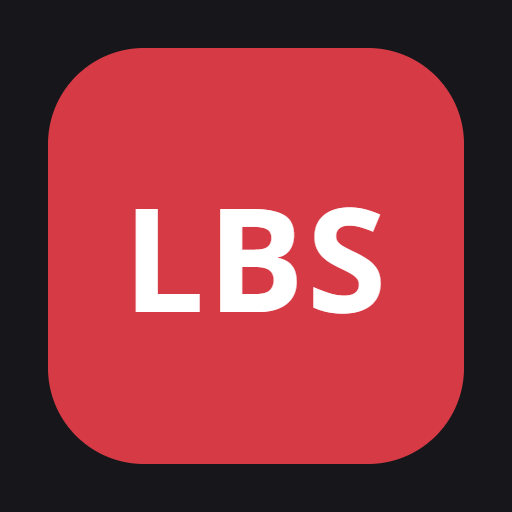
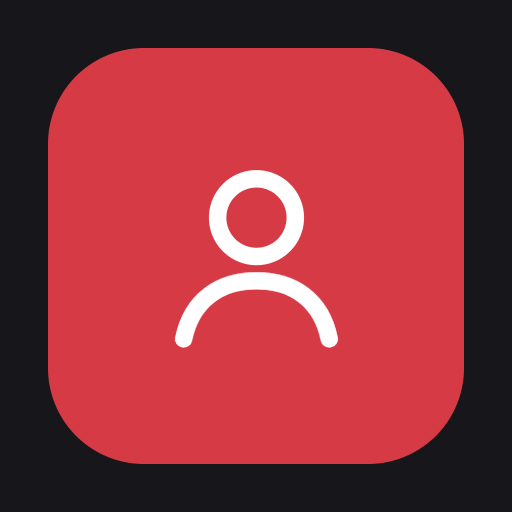
Paso 7: README, marca neutra y filtro de disponibilidad
Nombre "Gestión de alumnos (demo)", icono genérico sin siglas y aviso visible
de proyecto personal de demostración no afiliado. README y .gitignore.
El filtro Prácticas/Empleo incluye a los de Ambas. Caché a v7.

Changed region(s): [[0.25, 0.3125, 0.75, 0.6875]]

diff --git a/js/vistas/buscar.js b/js/vistas/buscar.js
@@ -32,9 +32,9 @@ export async function pintarBuscar(raiz) {
   const situaciones = opciones(listas.situaciones, ['situacionTrabajo']);
   const disponibilidades = opciones(listas.disponibilidades, ['disponibilidad']);
 
-  const campoSelect = (id, etiqueta, valores, clave, todas) => {
+  const campoSelect = (id, etiqueta, valores, clave, todas, nombreOpcion = v => v) => {
     const s = el('select', { id, onchange: () => { e[clave] = s.value; pintarResultados(); } },
-      el('option', { value: '' }, todas), valores.map(v => el('option', { value: v }, v)));
+      el('option', { value: '' }, todas), valores.map(v => el('option', { value: v }, nombreOpcion(v))));
     return el('div', { class: 'campo-form' }, el('label', { for: id }, etiqueta), s);
   };
 
@@ -69,7 +69,8 @@ export async function pintarBuscar(raiz) {
         el('div', { class: 'opciones', role: 'group', 'aria-labelledby': 'l-area-en' }, botonesArea)),
       campoSelect('f-nac', 'Nacionalidad (principal o secundaria)', nacionalidades, 'nacionalidad', 'Todas las nacionalidades'),
       campoSelect('f-sit', 'Situación de trabajo en España', situaciones, 'situacion', 'Todas las situaciones'),
-      campoSelect('f-disp', 'Disponibilidad', disponibilidades, 'disponibilidad', 'Prácticas, empleo o ambas')));
+      campoSelect('f-disp', 'Disponibilidad', disponibilidades, 'disponibilidad', 'Prácticas, empleo o ambas',
+        v => (v === 'Ambas' ? 'Ambas (prácticas y empleo)' : `${v} (incluye Ambas)`))));
 
   function pintarResultados() {
     const res = filtrar(alumnos, e);

diff --git a/css/app.css b/css/app.css
@@ -6,7 +6,7 @@
 @font-face{font-family:"Open Sans";font-style:normal;font-weight:700;font-display:swap;src:url(../fonts/opensans-latin-ext-700.woff2) format("woff2");unicode-range:U+0100-02BA,U+02BD-02C5,U+02C7-02CC,U+02CE-02D7,U+02DD-02FF,U+0304,U+0308,U+0329,U+1D00-1DBF,U+1E00-1E9F,U+1EF2-1EFF,U+2020,U+20A0-20AB,U+20AD-20C0,U+2113,U+2C60-2C7F,U+A720-A7FF}
 @font-face{font-family:"Open Sans";font-style:normal;font-weight:700;font-display:swap;src:url(../fonts/opensans-latin-700.woff2) format("woff2");unicode-range:U+0000-00FF,U+0131,U+0152-0153,U+02BB-02BC,U+02C6,U+02DA,U+02DC,U+0304,U+0308,U+0329,U+2000-206F,U+20AC,U+2122,U+2191,U+2193,U+2212,U+2215,U+FEFF,U+FFFD}
 
-/* ---------- tema LaLiga (mismos valores que la app de gastos) ----------
+/* ---------- tema oscuro con acento rojo (mismos valores que la app de gastos) ----------
    bg/ink/muted: texto sobre el fondo. card/cink/cmuted: dentro de tarjetas.
    Ojo: el rojo --act-bg solo vale como FONDO (con texto blanco, 4,59:1). Como texto usar --tab-on. */
 :root{
@@ -135,3 +135,6 @@ main{flex:1;min-height:0;overflow-y:auto;overflow-x:hidden;-webkit-overflow-scro
 .opcion[aria-pressed=true]{background:var(--act-bg);border-color:var(--act-bg);color:var(--act-fg)}
 #v-buscar > .secondary{margin-top:1rem}
 .cuenta{margin:1rem 0}
+
+/* Aviso legal visible al final de cada pantalla */
+.legal{margin:1.5rem 0 0;padding:1rem 1.5rem;border-radius:1.5rem;border:1.5px solid var(--line);font-size:.8125rem;line-height:1.5;color:var(--muted);text-align:center}

diff --git a/index.html b/index.html
@@ -9,18 +9,18 @@
 <meta name="color-scheme" content="dark">
 <meta name="apple-mobile-web-app-capable" content="yes">
 <meta name="mobile-web-app-capable" content="yes">
-<meta name="apple-mobile-web-app-title" content="Alumnos LBS">
+<meta name="apple-mobile-web-app-title" content="Alumnos (demo)">
 <meta name="apple-mobile-web-app-status-bar-style" content="black-translucent">
 <link rel="manifest" href="manifest.webmanifest">
 <link rel="apple-touch-icon" href="icons/apple-touch-icon.png">
 <link rel="icon" href="icons/icon-192.png">
 <link rel="stylesheet" href="css/app.css">
-<title>Alumnos LBS</title>
+<title>Gestión de alumnos (demo)</title>
 </head>
 <body>
 <div id="app">
   <header>
-    <h1 id="titulo">Alumnos LBS</h1>
+    <h1 id="titulo">Gestión de alumnos (demo)</h1>
   </header>
 
   <main id="main" tabindex="-1">
@@ -33,6 +33,8 @@
     <section class="view" id="v-cv" aria-labelledby="titulo"></section>
 
     <section class="view" id="v-buscar" aria-label="Buscar"></section>
+
+    <footer class="legal" role="note">Proyecto personal de demostración. Datos ficticios. No afiliado a LaLiga ni a LaLiga Business School.</footer>
   </main>
 
   <nav id="tabs" class="tabs" aria-label="Principal">

diff --git a/js/util/filtros.js b/js/util/filtros.js
@@ -21,6 +21,9 @@ function textoDe(a) {
 const porArea = (a, area, en) =>
   (en !== 'destino' && a.areaExperiencia === area) || (en !== 'experiencia' && a.areaDestino === area);
 
+// "Prácticas" y "Empleo" incluyen también a quien tiene "Ambas". "Ambas" muestra solo a los de Ambas.
+const disponible = (valor, buscado) => valor === buscado || (valor === 'Ambas' && buscado !== 'Ambas');
+
 export function filtrar(alumnos, e) {
   const palabras = norm(e.texto).split(/\s+/).filter(Boolean);   // todas deben aparecer
   return alumnos
@@ -28,6 +31,6 @@ export function filtrar(alumnos, e) {
     .filter(a => !e.area || porArea(a, e.area, e.areaEn))
     .filter(a => !e.nacionalidad || a.nacionalidadPrincipal === e.nacionalidad || a.nacionalidadSecundaria === e.nacionalidad)
     .filter(a => !e.situacion || a.situacionTrabajo === e.situacion)
-    .filter(a => !e.disponibilidad || a.disponibilidad === e.disponibilidad)   // valor exacto: Prácticas, Empleo o Ambas
+    .filter(a => !e.disponibilidad || disponible(a.disponibilidad, e.disponibilidad))
     .sort((x, y) => `${x.apellidos} ${x.nombre}`.localeCompare(`${y.apellidos} ${y.nombre}`, 'es'));
 }

diff --git a/js/vistas/inicio.js b/js/vistas/inicio.js
@@ -26,7 +26,7 @@ export async function pintarInicio(raiz) {
   raiz.replaceChildren(...[
     el('h2', { class: 'seccion' }, 'Elige un máster'),
     el('nav', { class: 'masters', 'aria-label': 'Másteres' }, botones),
-    el('p', { class: 'estado' }, `${plural(masters.length, 'máster', 'másteres')} · ${plural(total, 'alumno', 'alumnos')} · datos de prueba`),
+    el('p', { class: 'estado' }, `${plural(masters.length, 'máster', 'másteres')} · ${plural(total, 'alumno', 'alumnos')} · datos ficticios`),
     estado.respaldo && el('p', { class: 'aviso', role: 'status' },
       'No se ha podido leer el Google Sheet; se muestran los datos de respaldo de la app. ',
       el('small', {}, 'Motivo: ' + (estado.motivo === 'Failed to fetch' || /abort/i.test(estado.motivo) ? 'sin conexión o Google no responde.' : estado.motivo) + ' '),

diff --git a/sw.js b/sw.js
@@ -1,6 +1,6 @@
 // Service worker: deja la app disponible sin conexión.
 // Cada cambio en los archivos de la app: subir CACHE para que el móvil cargue la versión nueva.
-const CACHE = 'alumnos-lbs-v6';
+const CACHE = 'gestion-alumnos-demo-v7';
 const FILES = ['./', './index.html', './manifest.webmanifest', './css/app.css', './js/app.js', './js/util/csv.js', './js/util/dom.js', './js/vistas/inicio.js', './js/vistas/master.js', './js/vistas/alumno.js', './js/util/avatar.js', './js/util/cv.js', './js/vistas/cv.js', './js/vistas/buscar.js', './js/util/texto.js', './js/util/filtros.js', './js/util/navegacion.js',
   './js/data/index.js', './js/data/config.js', './js/data/esquema.js', './js/data/fuente-csv.js',
   './datos-mock/Alumnos.csv', './datos-mock/Ofertas.csv', './datos-mock/Listas.csv',

diff --git a/js/app.js b/js/app.js
@@ -18,7 +18,7 @@ function rutaActual() {
     if ((m = h.match(/^alumno\/(.+)$/))) return { vista: 'alumno', valor: decodeURIComponent(m[1]), pestana: 'inicio', titulo: 'Ficha' };
   } catch { /* dirección mal escrita: se vuelve al inicio */ }
   if (h === 'buscar') return { vista: 'buscar', pestana: 'buscar', titulo: 'Buscar' };
-  return { vista: 'inicio', pestana: 'inicio', titulo: 'Alumnos LBS' };
+  return { vista: 'inicio', pestana: 'inicio', titulo: 'Gestión de alumnos (demo)' };
 }
 
 async function pintar() {

diff --git a/README.md b/README.md
@@ -1,2 +1,73 @@
-# alumnos-laliga-app
-App PWA de gestión de alumnos
+# Gestión de alumnos (demo)
+
+> **Proyecto personal de demostración. Datos ficticios. No afiliado a LaLiga ni a LaLiga Business School.**
+
+App web para móvil (PWA) para consultar alumnos de un máster: lista por máster, ficha con CV, búsqueda y filtros. Los nombres de los másteres y de las empresas de las ofertas son de ejemplo.
+
+**Fase 1: solo lectura y solo datos de prueba (ficticios).** No usar con alumnos reales: ver [DECISIONES.md](DECISIONES.md).
+
+Web publicada: https://santiagofloressolbes.github.io/alumnos-laliga-app/
+
+## Qué hay en cada carpeta
+
+| Carpeta o archivo | Para qué sirve |
+|---|---|
+| `index.html`, `css/`, `js/` | La app (HTML, CSS y JavaScript sin instalar nada). |
+| `js/data/` | **Único sitio que sabe de dónde vienen los datos.** `config.js` dice cuál es la fuente. |
+| `datos-mock/` | Los 3 CSV de prueba (Alumnos, Ofertas, Listas). Son el respaldo si falla Google. |
+| `fonts/`, `icons/` | Tipografía Open Sans e iconos, guardados en el repo (sin CDN). |
+| `sw.js`, `manifest.webmanifest` | Permiten instalar la app y abrirla sin conexión. |
+| `DECISIONES.md` | Qué se decidió y por qué, y el plan pendiente de acceso con clave. |
+
+## Probarla en tu ordenador
+
+1. Abre una terminal en la carpeta del proyecto.
+2. Escribe `python -m http.server 8123` y pulsa Intro.
+3. Abre `http://localhost:8123` en el navegador.
+4. Para parar el servidor, pulsa Ctrl+C en la terminal.
+
+No se puede abrir `index.html` con doble clic: los navegadores bloquean así los módulos de JavaScript.
+
+## Publicar un cambio (GitHub Pages)
+
+1. **Sube el número de caché** en `sw.js` (la línea `const CACHE = 'gestion-alumnos-demo-vN'`, un número más). Sin esto, el móvil sigue con la versión vieja.
+2. Guarda y sube los cambios a la rama `main` (`git add -A`, `git commit`, `git push`).
+3. Espera 1 o 2 minutos. GitHub Pages publica solo.
+4. En el móvil, cierra la app del todo y ábrela dos veces para que cargue la versión nueva.
+
+Primera vez: en GitHub, Settings, Pages, Source "Deploy from a branch", rama `main`, carpeta `/ (root)`.
+
+## Actualizar los datos (Google Sheet)
+
+Los datos de prueba están en un Google Sheet propio, con 3 hojas: **Alumnos**, **Ofertas** y **Listas**. La app lee las 3 hojas publicadas como CSV (Archivo, Compartir, Publicar en la web). Los enlaces están en `js/data/config.js`.
+
+- **Editar, añadir o borrar alumnos:** cambia las filas del Sheet. No hace falta tocar la app ni subir nada.
+- **Tarda unos 5 minutos** en verse en la app: Google refresca el CSV publicado con retraso.
+- **No cambies los nombres de las columnas ni de las hojas.** Si falta una columna, la app lo avisa en Inicio con el motivo y enseña los datos de respaldo (`datos-mock/`).
+- **Un alumno nuevo** necesita un ID distinto (A031, A032…) y un máster. Conviene que el máster esté en la hoja Listas; si no, aparece igualmente, pero al final de la lista de másteres.
+- **Valores de las listas:** escribe situación de trabajo, área, nacionalidad y disponibilidad exactamente igual que en la hoja Listas (usa el desplegable). Si cambias una letra o una tilde, los filtros lo tratan como otro valor y salen opciones duplicadas.
+- **Si borras o renombras una hoja, o dejas de publicarla,** su enlace deja de funcionar y la app usa el respaldo.
+- Para cambiar los datos de respaldo, edita los CSV de `datos-mock/` (con el mismo formato) y publica como arriba.
+
+## Seguridad y privacidad (importante)
+
+- **Todo lo que está aquí es público:** el código, los CSV de prueba y los enlaces del Sheet publicado. Por eso solo hay datos ficticios.
+- **No hay ninguna clave ni contraseña** en el repo. No añadas ninguna.
+- **No uses "Publicar en la web" con datos reales.** Antes de usar alumnos reales hay que cambiar la fuente de datos y añadir acceso con clave o inicio de sesión (lista de comprobación en `DECISIONES.md`).
+- **No es una app oficial** ni está afiliada a LaLiga ni a LaLiga Business School. No usar sus logos, nombres comerciales ni datos reales.
+- La web lleva `noindex` para que Google no la muestre, pero **eso no la hace privada**: quien tenga el enlace puede abrirla.
+
+## Migrar a Excel / SharePoint (Microsoft Graph)
+
+Las pantallas nunca leen los datos directamente: piden `getAlumnos()`, `getOfertas()`, `getListas()` y `getMasters()` a `js/data/index.js`. Para migrar:
+
+1. Crear en `js/data/` un archivo nuevo (por ejemplo `fuente-graph.js`) que devuelva los mismos datos con las mismas claves (están en `js/data/esquema.js`).
+2. Cambiar la fuente en `js/data/config.js` y en `js/data/index.js`.
+3. Añadir el inicio de sesión de Microsoft. Hace falta apoyo del departamento de IT de la organización para registrar la app y dar permisos.
+
+## Comprobaciones rápidas tras un cambio
+
+- Inicio muestra 4 másteres con 8, 8, 7 y 7 alumnos.
+- Un máster lista a sus alumnos; una ficha abre su "CV de ejemplo".
+- Buscar encuentra "ibanez" (sin tilde) y los filtros combinan.
+- Sin conexión la app abre y avisa de que usa datos de respaldo.

diff --git a/DECISIONES.md b/DECISIONES.md
@@ -1,5 +1,7 @@
 # Decisiones del proyecto
 
+> **Proyecto personal de demostración. Datos ficticios. No afiliado a LaLiga ni a LaLiga Business School.**
+
 Última actualización: 2026-10-31. Fase 1: solo lectura, solo datos de prueba (ficticios).
 
 ## Decididas
@@ -11,16 +13,17 @@
 | Tecnología | HTML, CSS y JavaScript puros, sin instalar ni compilar nada. Módulos JS. Sin librerías ni CDN. | Lo más simple; se publica tal cual en GitHub Pages. |
 | Rutas | Con `#` (por ejemplo `#/master/MBA en inglés`). | GitHub Pages no entiende rutas de servidor. |
 | Acceso a datos | Todo pasa por `js/data/` (`getAlumnos`, `getOfertas`, `getListas`, `getMasters`). Las pantallas nunca leen archivos ni Google directamente. | Migrar a Microsoft Graph tocando pocas piezas: un archivo nuevo en `js/data/` y una línea en `config.js`. |
-| Fuente actual | Google Sheet "Alumnos LBS – MOCK" publicado como CSV (una hoja por enlace). Si falla, datos de respaldo de `datos-mock/`, con aviso en pantalla. | No necesita claves; vale solo con datos de prueba. |
+| Fuente actual | Google Sheet de prueba publicado como CSV (una hoja por enlace). Si falla, datos de respaldo de `datos-mock/`, con aviso en pantalla. | No necesita claves; vale solo con datos de prueba. |
 | Solo lectura | La app no edita nada. | Alcance de la Fase 1. |
-| Diseño | Tema LaLiga con los mismos valores que la app de gastos. Open Sans en el repo. Márgenes de 24 px, tarjetas de 24 px de radio, botones de 44 px como mínimo. | Coherencia con tu app de gastos. |
+| Diseño | Tema oscuro con acento rojo, con los mismos valores que la app de gastos. Open Sans en el repo. Márgenes de 24 px, tarjetas de 24 px de radio, botones de 44 px como mínimo. | Coherencia con tu app de gastos. |
 | Contraste | El rojo `#D63B45` solo como fondo (con texto blanco, 4,59:1). Como texto de color se usa `#FF6B73`. | Como texto sobre tarjeta el rojo da 3,44:1 y no pasa 4,5:1. |
 | Sin zoom | Se cancelan los gestos de pellizco y se usa `touch-action: manipulation`. El viewport no lleva `user-scalable`. | Igual que gastos; comprobado en iPhone. |
 | Textos de los datos | Siempre se escriben como texto (nunca `innerHTML`). | Una celda con código no puede ejecutarse. |
 | Buscadores | `noindex` en `index.html` y `robots.txt`. | Evita que salga en Google. No hace la app privada. |
 | Caché | Cada cambio en archivos de la app: subir `CACHE` en `sw.js`. Los datos van primero por red. | Que el móvil cargue siempre la versión nueva. |
 | CV de ejemplo | Los enlaces `example.com/cv/…` se desvían a una página "CV de ejemplo" dentro de la app (Paso 5), sin tocar el Sheet. | Pedido por Santiago. |
-| Disponibilidad | Tres valores: Prácticas, Empleo, Ambas. | Ya estaban en los datos de prueba. |
+| Disponibilidad | Tres valores: Prácticas, Empleo, Ambas. En el filtro, "Prácticas" y "Empleo" incluyen también a los de "Ambas"; "Ambas" muestra solo a los de Ambas. | Quien busca prácticas también acepta a quien admite las dos. |
+| Marca | Nombre público "Gestión de alumnos (demo)"; en el icono del móvil, "Alumnos (demo)". Sin logos ni siglas de LaLiga ni de la escuela. Icono genérico (silueta). Aviso visible al final de cada pantalla y en el README. Los nombres de los másteres se mantienen. | Que no parezca una app oficial. Nombre corto porque iOS recorta los nombres largos bajo el icono. |
 
 ## Pendiente (sin código todavía): Sheet privado y acceso con clave
 
@@ -55,7 +58,7 @@
 - **Móvil perdido:** la clave está en el móvil.
 - **CV y fotos:** la clave no los protege. Sus enlaces tendrían que ser privados (Fase 2).
 - **Historial de Git:** los enlaces del Sheet publicado ya están en el historial público. Dejan de funcionar al detener la publicación.
-- **Microsoft:** el destino correcto es un inicio de sesión individual (Entra ID) con SharePoint o Excel, con permisos por persona y registro. Requiere a IT de LaLiga. La capa de datos ya lo permite; cambiaría la pantalla de Acceso.
+- **Microsoft:** el destino correcto es un inicio de sesión individual (Entra ID) con SharePoint o Excel, con permisos por persona y registro. Requiere al departamento de IT de la organización. La capa de datos ya lo permite; cambiaría la pantalla de Acceso.
 
 **Recomendación:** usar este mecanismo solo con datos de prueba. Para datos reales, pasar a Microsoft con inicio de sesión, no a una clave compartida en una cuenta personal.
 
